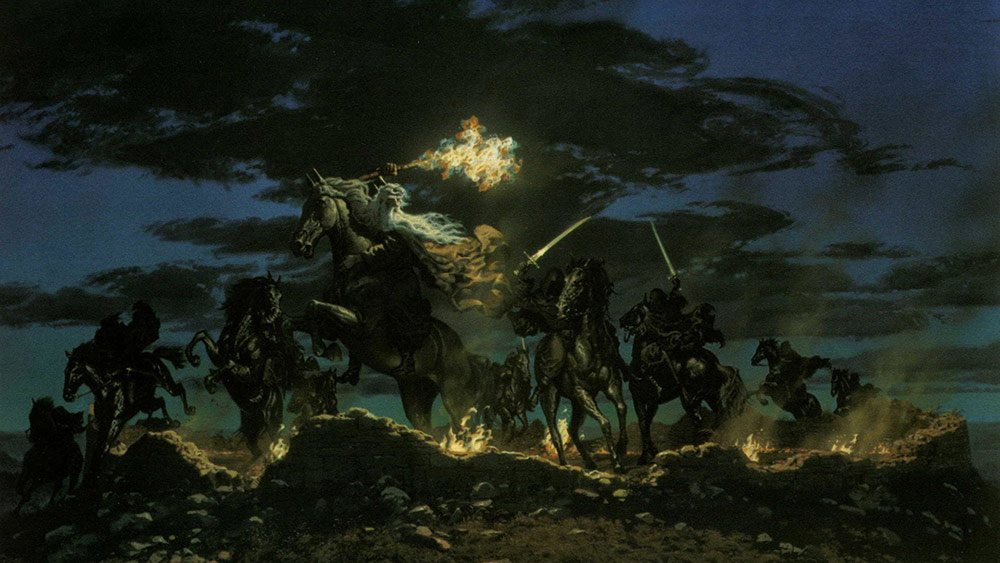
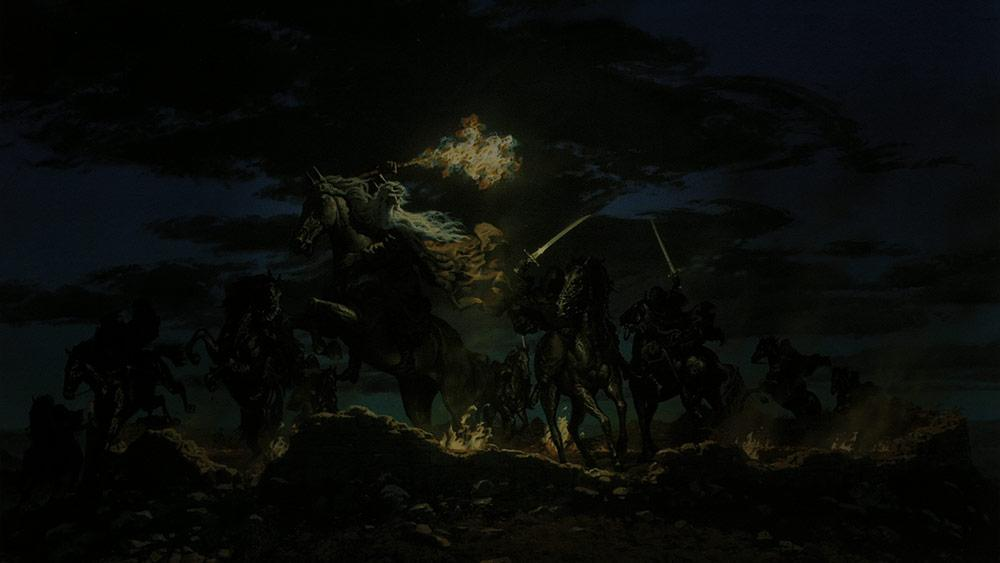
Making BG smaller by changing darkness

diff --git a/public/css/style.css b/public/css/style.css
@@ -1,5 +1,3 @@
-
-
 a {
 	color: #00B7FF;
 }
@@ -16,10 +14,7 @@ a {
 
 
 html {
-    background-image: url("/img/bgr_1920.jpg");
-    background-repeat: no-repeat;
-    background-size: cover;
-    background-position: center center;
+    background: url('/img/bgr_1920.jpg') no-repeat fixed center top / cover;
     font-size: 14px;
     font-family: 'Ubuntu Mono', monospace;
     line-height: initial;
@@ -47,15 +42,10 @@ html {
     }
 }
 body {
-   background: rgba(0,0,0,0.6);
-   background: -webkit-radial-gradient(rgba(0,0,0,0.33),rgba(0,0,0,0.99)); /*Safari 5.1-6*/
-   background: -o-radial-gradient(rgba(0,0,0,0.33),rgba(0,0,0,0.99)); /*Opera 11.1-12*/
-   background: -moz-radial-gradient(rgba(0,0,0,0.33),rgba(0,0,0,0.99)); /*Fx 3.6-15*/
-   background: radial-gradient(rgba(0,0,0,0.33),rgba(0,0,0,0.99)); /*Standard*/
    overflow: hidden;
 }
 
-body,input,button,select,option {	
+body,input,button,select,option {
    font-family: monospace;
 	margin: 0;
 	padding: 0;
@@ -265,7 +255,7 @@ html, body, #container {
    margin-left: 1rem;
 }
 .tab-buttons a:last-of-type {
-   margin-right: 0;  
+   margin-right: 0;
 }
 .tab-buttons a:hover, .tab-buttons a.selected {
 	color: #00B7FF;
@@ -316,8 +306,8 @@ html, body, #container {
 
 
 /* TAB FILES */
-#tab-files .game { 
-	color: #dc8c45; 
+#tab-files .game {
+	color: #dc8c45;
 	margin-bottom: 5px;
 }
 #tab-files .game a { margin-left: 10px; }
@@ -368,7 +358,7 @@ html, body, #container {
 /* MAIN PANE: GAMES LOBBY */
 #gameselect:hover { box-shadow: none; }
 #games-lobby img { margin: 2rem 0; }
-#games-lobby h2 { 
+#games-lobby h2 {
 	color: #85a0ab;
    margin: 1rem 0;
    text-transform: uppercase;
@@ -383,16 +373,16 @@ html, body, #container {
 	justify-content: center;
 	margin-bottom: 2px;
 }
-#games-lobby .new-game .row div { 
-	min-width: 200px; 
-	padding: 0 0.5rem; 
+#games-lobby .new-game .row div {
+	min-width: 200px;
+	padding: 0 0.5rem;
 }
 #games-lobby .new-game .row input,
 #games-lobby .new-game .row select {
    width: 300px;
    -webkit-appearance: none;
    -moz-appearance: none;
-   padding: 3px 8px; 
+   padding: 3px 8px;
    background-color: rgba(0,0,0,0.75);
 }
 #game-description {
@@ -406,7 +396,7 @@ html, body, #container {
     color: #c7c6c6;
     text-decoration: none;
 	margin-bottom: 1rem;
-}	
+}
 #updatebutton, #deletebutton {
 	padding: 0.25rem 0.5rem;
     background-color: rgba(0,0,0,0.75);
@@ -414,8 +404,8 @@ html, body, #container {
     color: #c7c6c6;
     text-decoration: none;
 }
-#playbutton:hover, , #updatebutton:hover { 
-	background-color: #353535; 
+#playbutton:hover, , #updatebutton:hover {
+	background-color: #353535;
 }
 #watchmenu ul {
    padding: 0;
